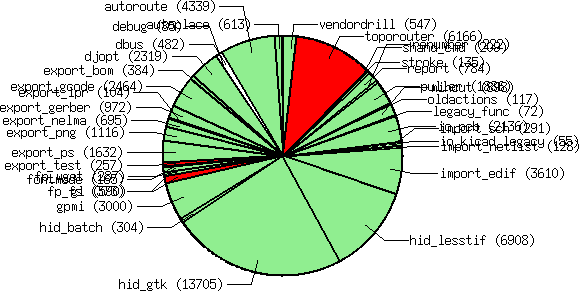
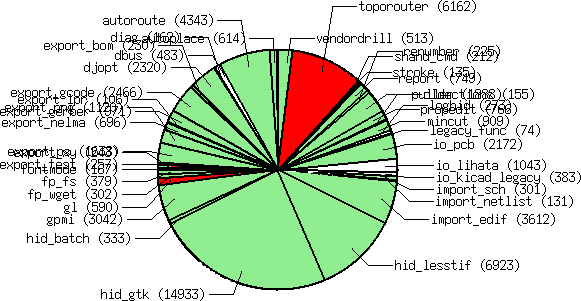
[doc-rnd] -Update: plugin list
git-svn-id: svn://repo.hu/librnd/trunk@3649 1d61de99-560f-4dba-8957-1e505d42358b

Changed region(s): [[0.0, 0.0, 1.0, 1.0], [0.5907, 0.6804, 0.6218, 0.7113], [0.5596, 0.6495, 0.5907, 0.6804]]

diff --git a/doc-rnd/mods3/index.html b/doc-rnd/mods3/index.html
@@ -58,63 +58,63 @@ Below is a table with the summary of core plugins.
 <tr><th>module <th>size [sloc] <th> status <th> configure<br>default <th> class <th> description
 
 
-<tr><th align=left>autoplace<td>613
+<tr><th align=left>autoplace<td>614
 <td bgcolor="lightgreen" > works
 <td bgcolor="lightgreen"> buildin
 <td> (feature)
 <td> Automatically place elements. 
-<tr><th align=left>autoroute<td>4339
+<tr><th align=left>autoroute<td>4343
 <td bgcolor="lightgreen" > works
 <td bgcolor="lightgreen"> buildin
 <td> (feature)
 <td> Automatically route selected or all rats. This is the original autorouter. 
-<tr><th align=left>dbus<td>482
+<tr><th align=left>dbus<td>483
 <td  > WIP
 <br> (needs to install the xml?)
 <td bgcolor="red"> disabled
 <td> (feature)
 <td> Remote control PCB using DBUS. 
-<tr><th align=left>debug<td>85
+<tr><th align=left>diag<td>162
 <td bgcolor="lightgreen" > works
 <td bgcolor="red"> disabled
 <td> (feature)
-<td> Actions that help developer to debug pcb core. These are not in core because end users normally don't need these. As a plugin, due to dynamic loading, it can be dropped on an existing pcb installation with minimal risk of scaring away a reproducible bug. 
-<tr><th align=left>djopt<td>2319
+<td> Actions for pcb-rnd core diagnostics, intended for developers. These are not in core because end users normally don't need these. As a plugin, due to dynamic loading, it can be dropped on an existing pcb-rnd installation with minimal risk of scaring away a reproducible bug. 
+<tr><th align=left>djopt<td>2320
 <td bgcolor="lightgreen" > works
 <td bgcolor="lightgreen"> buildin
 <td> (feature)
 <td> Various board optimization algorithms. 
-<tr><th align=left>export_bom<td>384
+<tr><th align=left>export_bom<td>230
 <td bgcolor="lightgreen" > works
 <td bgcolor="lightgreen"> buildin
 <td> export
 <td> Export bom (Bill of Materials) 
-<tr><th align=left>export_gcode<td>2464
+<tr><th align=left>export_gcode<td>2466
 <td bgcolor="lightgreen" > works
 <td bgcolor="lightgreen"> buildin
 <td> export
 <td> Export to gcode 
-<tr><th align=left>export_gerber<td>972
+<tr><th align=left>export_gerber<td>971
 <td bgcolor="lightgreen" > works
 <td bgcolor="lightgreen"> buildin
 <td> export
 <td> Export to gerber 
-<tr><th align=left>export_lpr<td>104
+<tr><th align=left>export_lpr<td>106
 <td bgcolor="lightgreen" > works
 <td bgcolor="lightgreen"> buildin
 <td> export
 <td> Export to lpr (using export_ps to generate postscript) 
-<tr><th align=left>export_nelma<td>695
+<tr><th align=left>export_nelma<td>696
 <td bgcolor="lightgreen" > works
 <td bgcolor="lightgreen"> buildin
 <td> export
 <td> Export to nelma (Numerical capacitance calculator) 
-<tr><th align=left>export_png<td>1116
+<tr><th align=left>export_png<td>1120
 <td bgcolor="lightgreen" > works
 <td bgcolor="lightgreen"> buildin
 <td> export
 <td> Export to png, gif and jpeg 
-<tr><th align=left>export_ps<td>1632
+<tr><th align=left>export_ps<td>1638
 <td bgcolor="lightgreen" > works
 <td bgcolor="lightgreen"> buildin
 <td> export
@@ -125,17 +125,22 @@ Below is a table with the summary of core plugins.
 <td bgcolor="lightgreen"> buildin
 <td> export
 <td> A thin layer of code to dump exporter calls for testing the HID exporter API. 
-<tr><th align=left>fontmode<td>165
+<tr><th align=left>export_xy<td>243
+<td bgcolor="lightgreen" > works
+<td bgcolor="lightgreen"> buildin
+<td> export
+<td> Export XY centroid element data for pick & place. 
+<tr><th align=left>fontmode<td>167
 <td bgcolor="lightgreen" > works
 <td bgcolor="lightgreen"> buildin
 <td> (feature)
 <td> Font editing actions. 
-<tr><th align=left>fp_fs<td>373
+<tr><th align=left>fp_fs<td>379
 <td bgcolor="lightgreen" > works
 <td bgcolor="lightgreen"> buildin
 <td> fp
 <td> Footprint: file system based implementation. Used to be called Newlib: load footprints from directories. Run external processes for the parametric footprints. 
-<tr><th align=left>fp_wget<td>287
+<tr><th align=left>fp_wget<td>302
 <td bgcolor="lightgreen" > works
 <td bgcolor="lightgreen"> buildin
 <td> fp
@@ -146,83 +151,98 @@ Below is a table with the summary of core plugins.
 <td bgcolor="red"> disabled
 <td> (feature)
 <td> Common gl functions for hids. 
-<tr><th align=left>gpmi<td>3000
+<tr><th align=left>gpmi<td>3042
 <td bgcolor="lightgreen" > works
 <td bgcolor="lightgreen"> buildin
 <br> (if gpmi is installed)
 <td> (feature)
 <td> Scriptable plugin system with about 10 scripting languages supported and dynamic load/unload of scripts that can manipulate the GUI, the board, can implement exporters, etc. 
-<tr><th align=left>hid_batch<td>304
+<tr><th align=left>hid_batch<td>333
 <td bgcolor="lightgreen" > works
 <td bgcolor="lightgreen"> buildin
 <td> hid
 <td> HID without GUI; read actions from stdin. 
-<tr><th align=left>hid_gtk<td>13705
+<tr><th align=left>hid_gtk<td>14933
 <td bgcolor="lightgreen" > works
 <td bgcolor="lightgreen"> buildin
 <td> hid
 <td> GUI: the GTK HID. 
-<tr><th align=left>hid_lesstif<td>6908
+<tr><th align=left>hid_lesstif<td>6923
 <td bgcolor="lightgreen" > works
 <td bgcolor="lightgreen"> buildin
 <td> hid
 <td> GUI: the lesstif HID. 
-<tr><th align=left>import_edif<td>3610
+<tr><th align=left>import_edif<td>3612
 <td bgcolor="lightgreen" > works
 <td bgcolor="lightgreen"> buildin
 <td> import
 <td> Import plugin for netlists in the EDIF format. 
-<tr><th align=left>import_netlist<td>128
+<tr><th align=left>import_netlist<td>131
 <td bgcolor="lightgreen" > works
 <td bgcolor="lightgreen"> buildin
 <td> import
 <td> Import plugin for netlists in the classic pcb netlist format. 
-<tr><th align=left>import_sch<td>291
+<tr><th align=left>import_sch<td>301
 <td bgcolor="lightgreen" > works
 <td bgcolor="lightgreen"> buildin
 <td> import
 <td> Imports element and netlist data from the schematics (or some other source). 
-<tr><th align=left>io_kicad_legacy<td>55
+<tr><th align=left>io_kicad_legacy<td>383
 <td  > work-in-progress
 <td bgcolor="red"> disabled
 <td> io
 <td> Load and save the design and elements in Kicad's legacy format. 
-<tr><th align=left>io_pcb<td>2136
+<tr><th align=left>io_lihata<td>1043
+<td  > WIP
+<td bgcolor="red"> disabled
+<td> io
+<td> Load and save the design and elements in the lihata board format. 
+<tr><th align=left>io_pcb<td>2172
 <td bgcolor="lightgreen" > works
 <td bgcolor="lightgreen"> buildin
 <td> io
 <td> Load and save the design and elements in the original pcb text format. 
-<tr><th align=left>legacy_func<td>72
+<tr><th align=left>legacy_func<td>74
 <td bgcolor="lightgreen" > works
 <td bgcolor="lightgreen"> buildin
 <td> (lib)
 <td> Random collection of old/obsolete (legacy) functions. 3rd party plugins may depend on them. This module implements C functions and variables and does not register actions or flags. 
-<tr><th align=left>mincut<td>898
+<tr><th align=left>loghid<td>273
+<td  > WIP
+<td bgcolor="red"> disabled
+<td> (feature)
+<td> Sits between a HID (or exporter) and the core and logs all core->plugin calls made through the HID structure. 
+<tr><th align=left>mincut<td>909
 <td bgcolor="lightgreen" > works
 <td bgcolor="lightgreen"> buildin
 <td> (feature)
 <td> Use the minimal cut algorithm to indicate shorts: instead of highlighting two random pins/pads, try to highlight the least number of objects that connect the two networks. 
-<tr><th align=left>oldactions<td>117
+<tr><th align=left>oldactions<td>155
 <td bgcolor="lightgreen" > works
 <td bgcolor="red"> disabled
 <td> (feature)
 <td> Random collection of old/obsolete actions. Bell(): audible feedback; DumpLibrary(): print footprint library on stdout; a set of debug actions useful for writing pcb scripts: Debug(), DebugXY(), Return(). Old plugin actions to toggle or set settings that are now accessible via the unified config system (vendordrill, djopt) 
-<tr><th align=left>puller<td>1886
+<tr><th align=left>propedit<td>766
+<td bgcolor="lightgreen" > works
+<td bgcolor="lightgreen"> buildin
+<td> (feature)
+<td> List and edit properties of a group of objects. 
+<tr><th align=left>puller<td>1888
 <td bgcolor="lightgreen" > works
 <td bgcolor="lightgreen"> buildin
 <td> (feature)
 <td> Pull traces to minimize their length. 
-<tr><th align=left>renumber<td>222
+<tr><th align=left>renumber<td>225
 <td bgcolor="lightgreen" > works
 <td bgcolor="lightgreen"> buildin
 <td> (feature)
 <td> Renumber elements (renaming them) and generate a text file for back annotation. 
-<tr><th align=left>report<td>784
+<tr><th align=left>report<td>749
 <td bgcolor="lightgreen" > works
 <td bgcolor="lightgreen"> buildin
 <td> (feature)
 <td> Report() and ReportObject() actions - print a report about design objects. 
-<tr><th align=left>shand_cmd<td>209
+<tr><th align=left>shand_cmd<td>212
 <td bgcolor="lightgreen" > works
 <td bgcolor="lightgreen"> buildin
 <td> (feature)
@@ -232,13 +252,13 @@ Below is a table with the summary of core plugins.
 <td bgcolor="red"> disabled
 <td> (feature)
 <td> Gesture recognition with libstroke. 
-<tr><th align=left>toporouter<td>6166
+<tr><th align=left>toporouter<td>6162
 <td bgcolor="red" > fails
 <br> (infinite loop in gts)
 <td bgcolor="red"> disabled
 <td> (feature)
 <td> Automatically route selected or all rats using a topological algorithm. This is the new autorouter from 2009. 
-<tr><th align=left>vendordrill<td>547
+<tr><th align=left>vendordrill<td>513
 <td bgcolor="lightgreen" > works
 <td bgcolor="lightgreen"> buildin
 <td> (feature)
